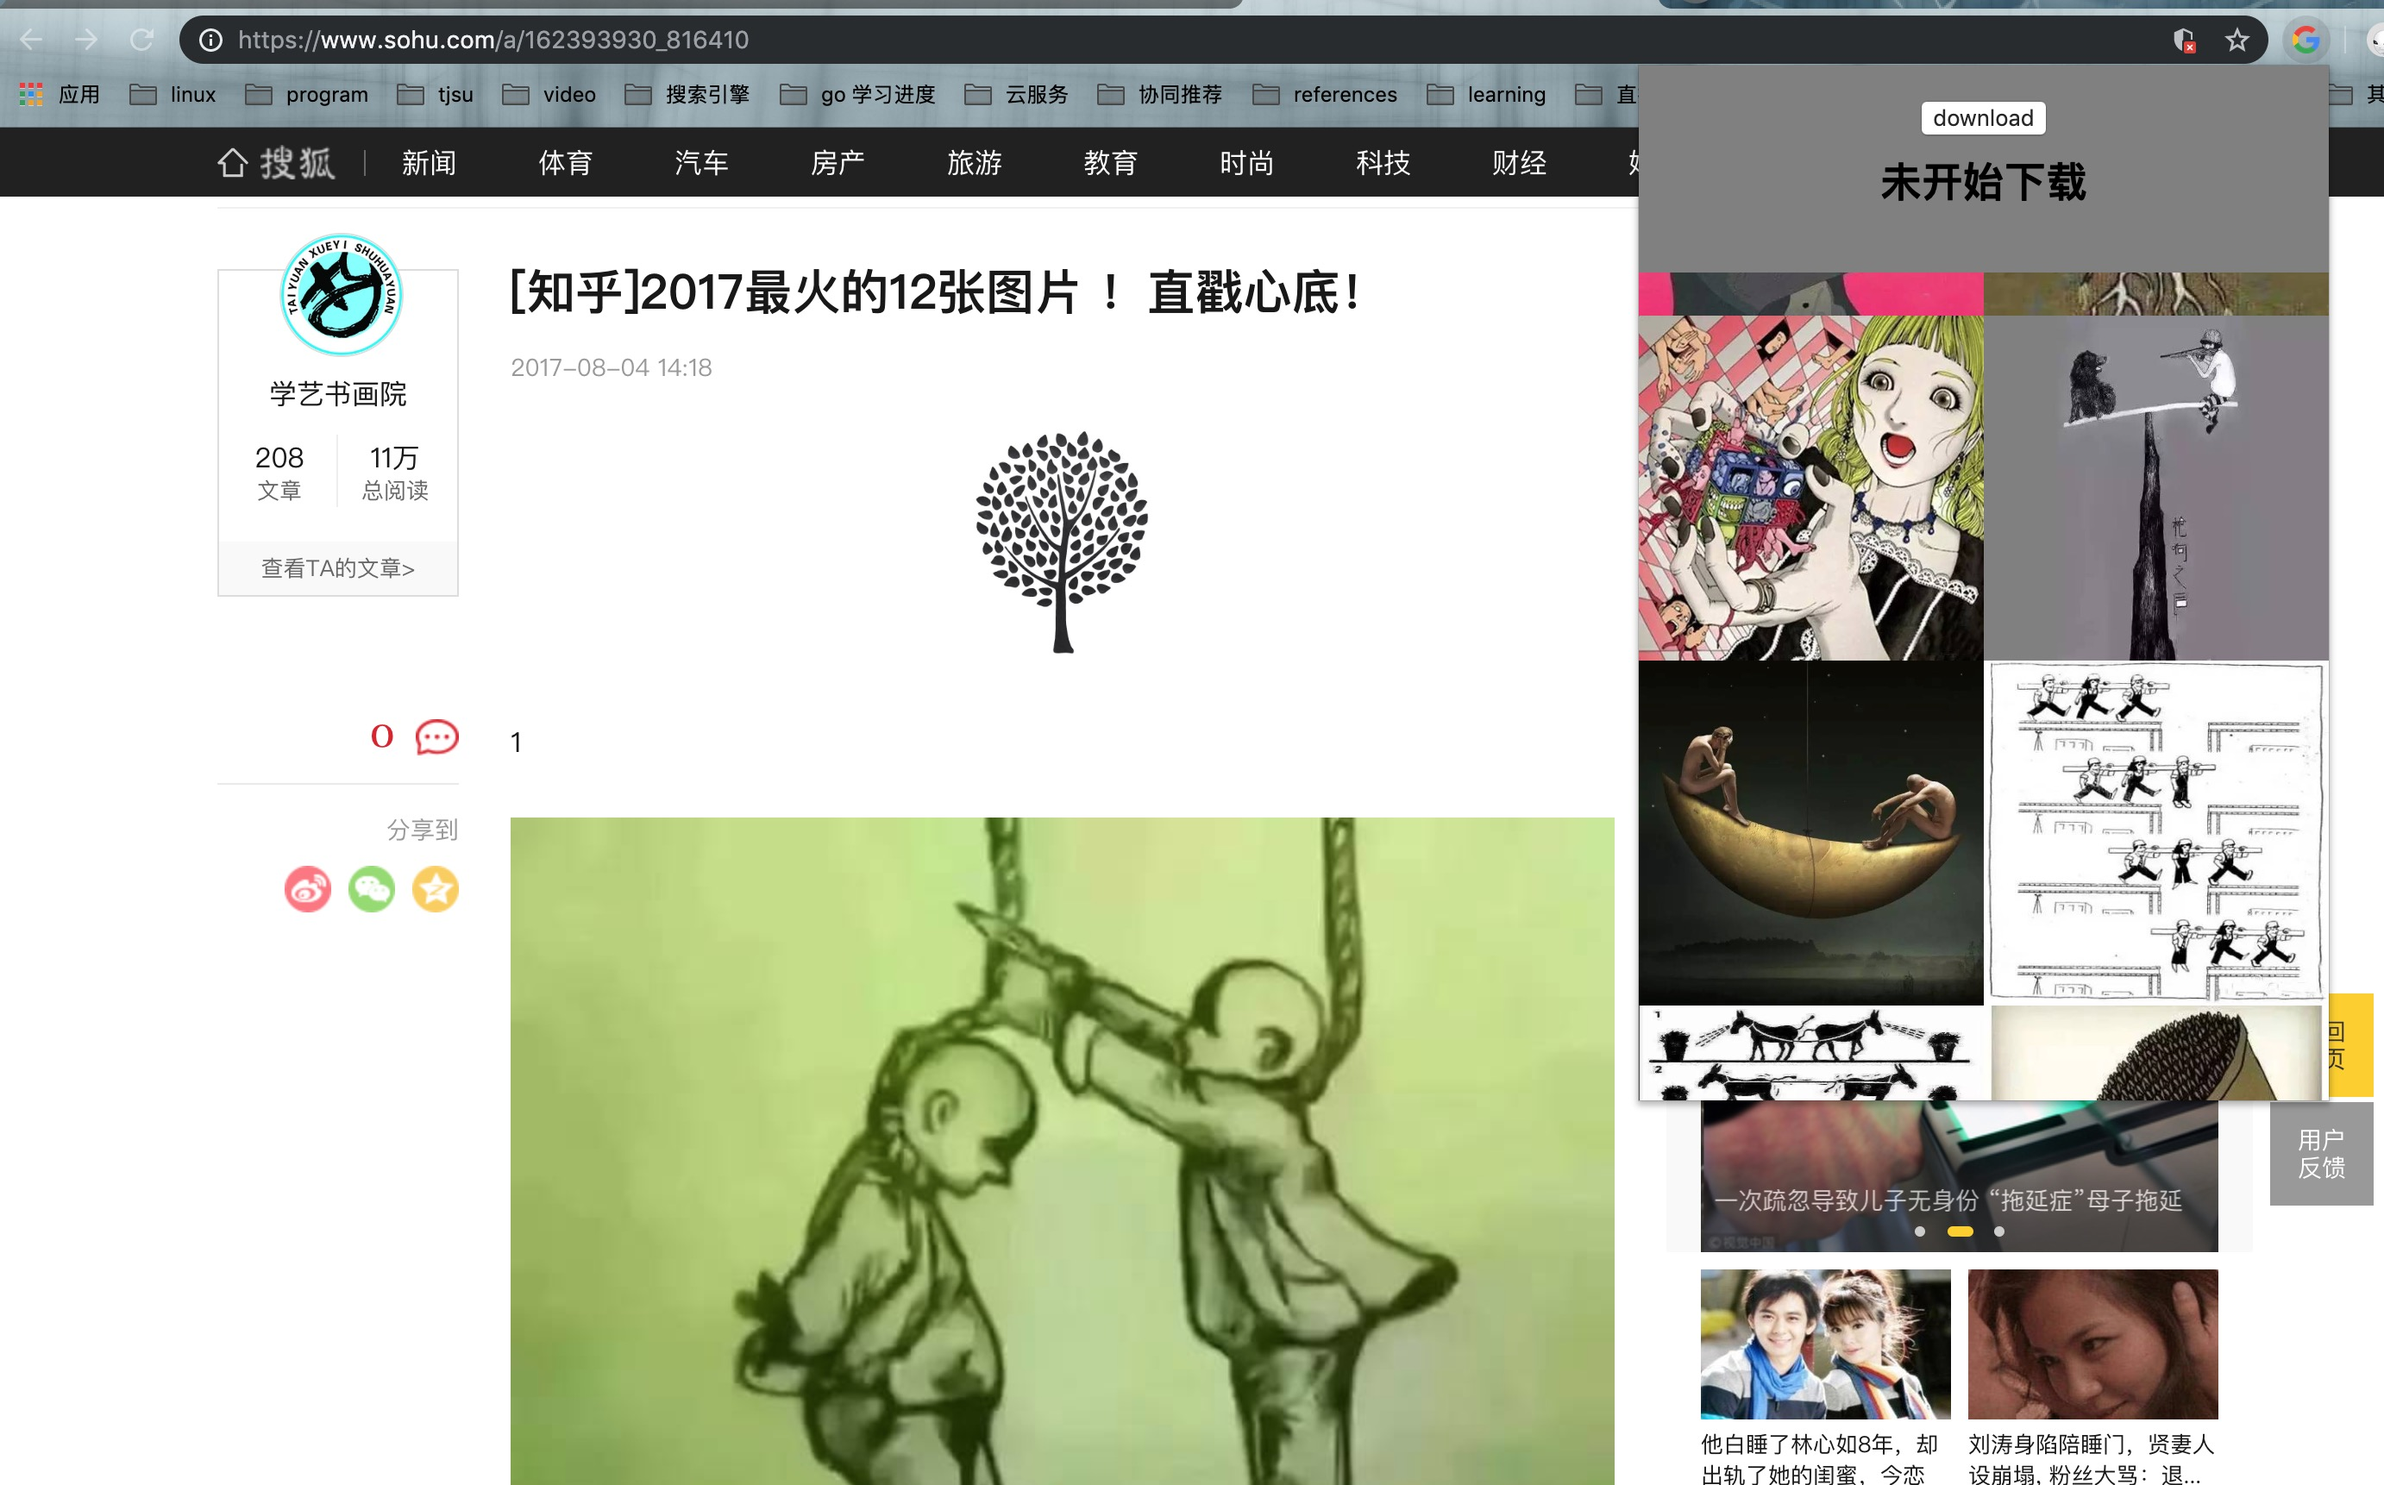
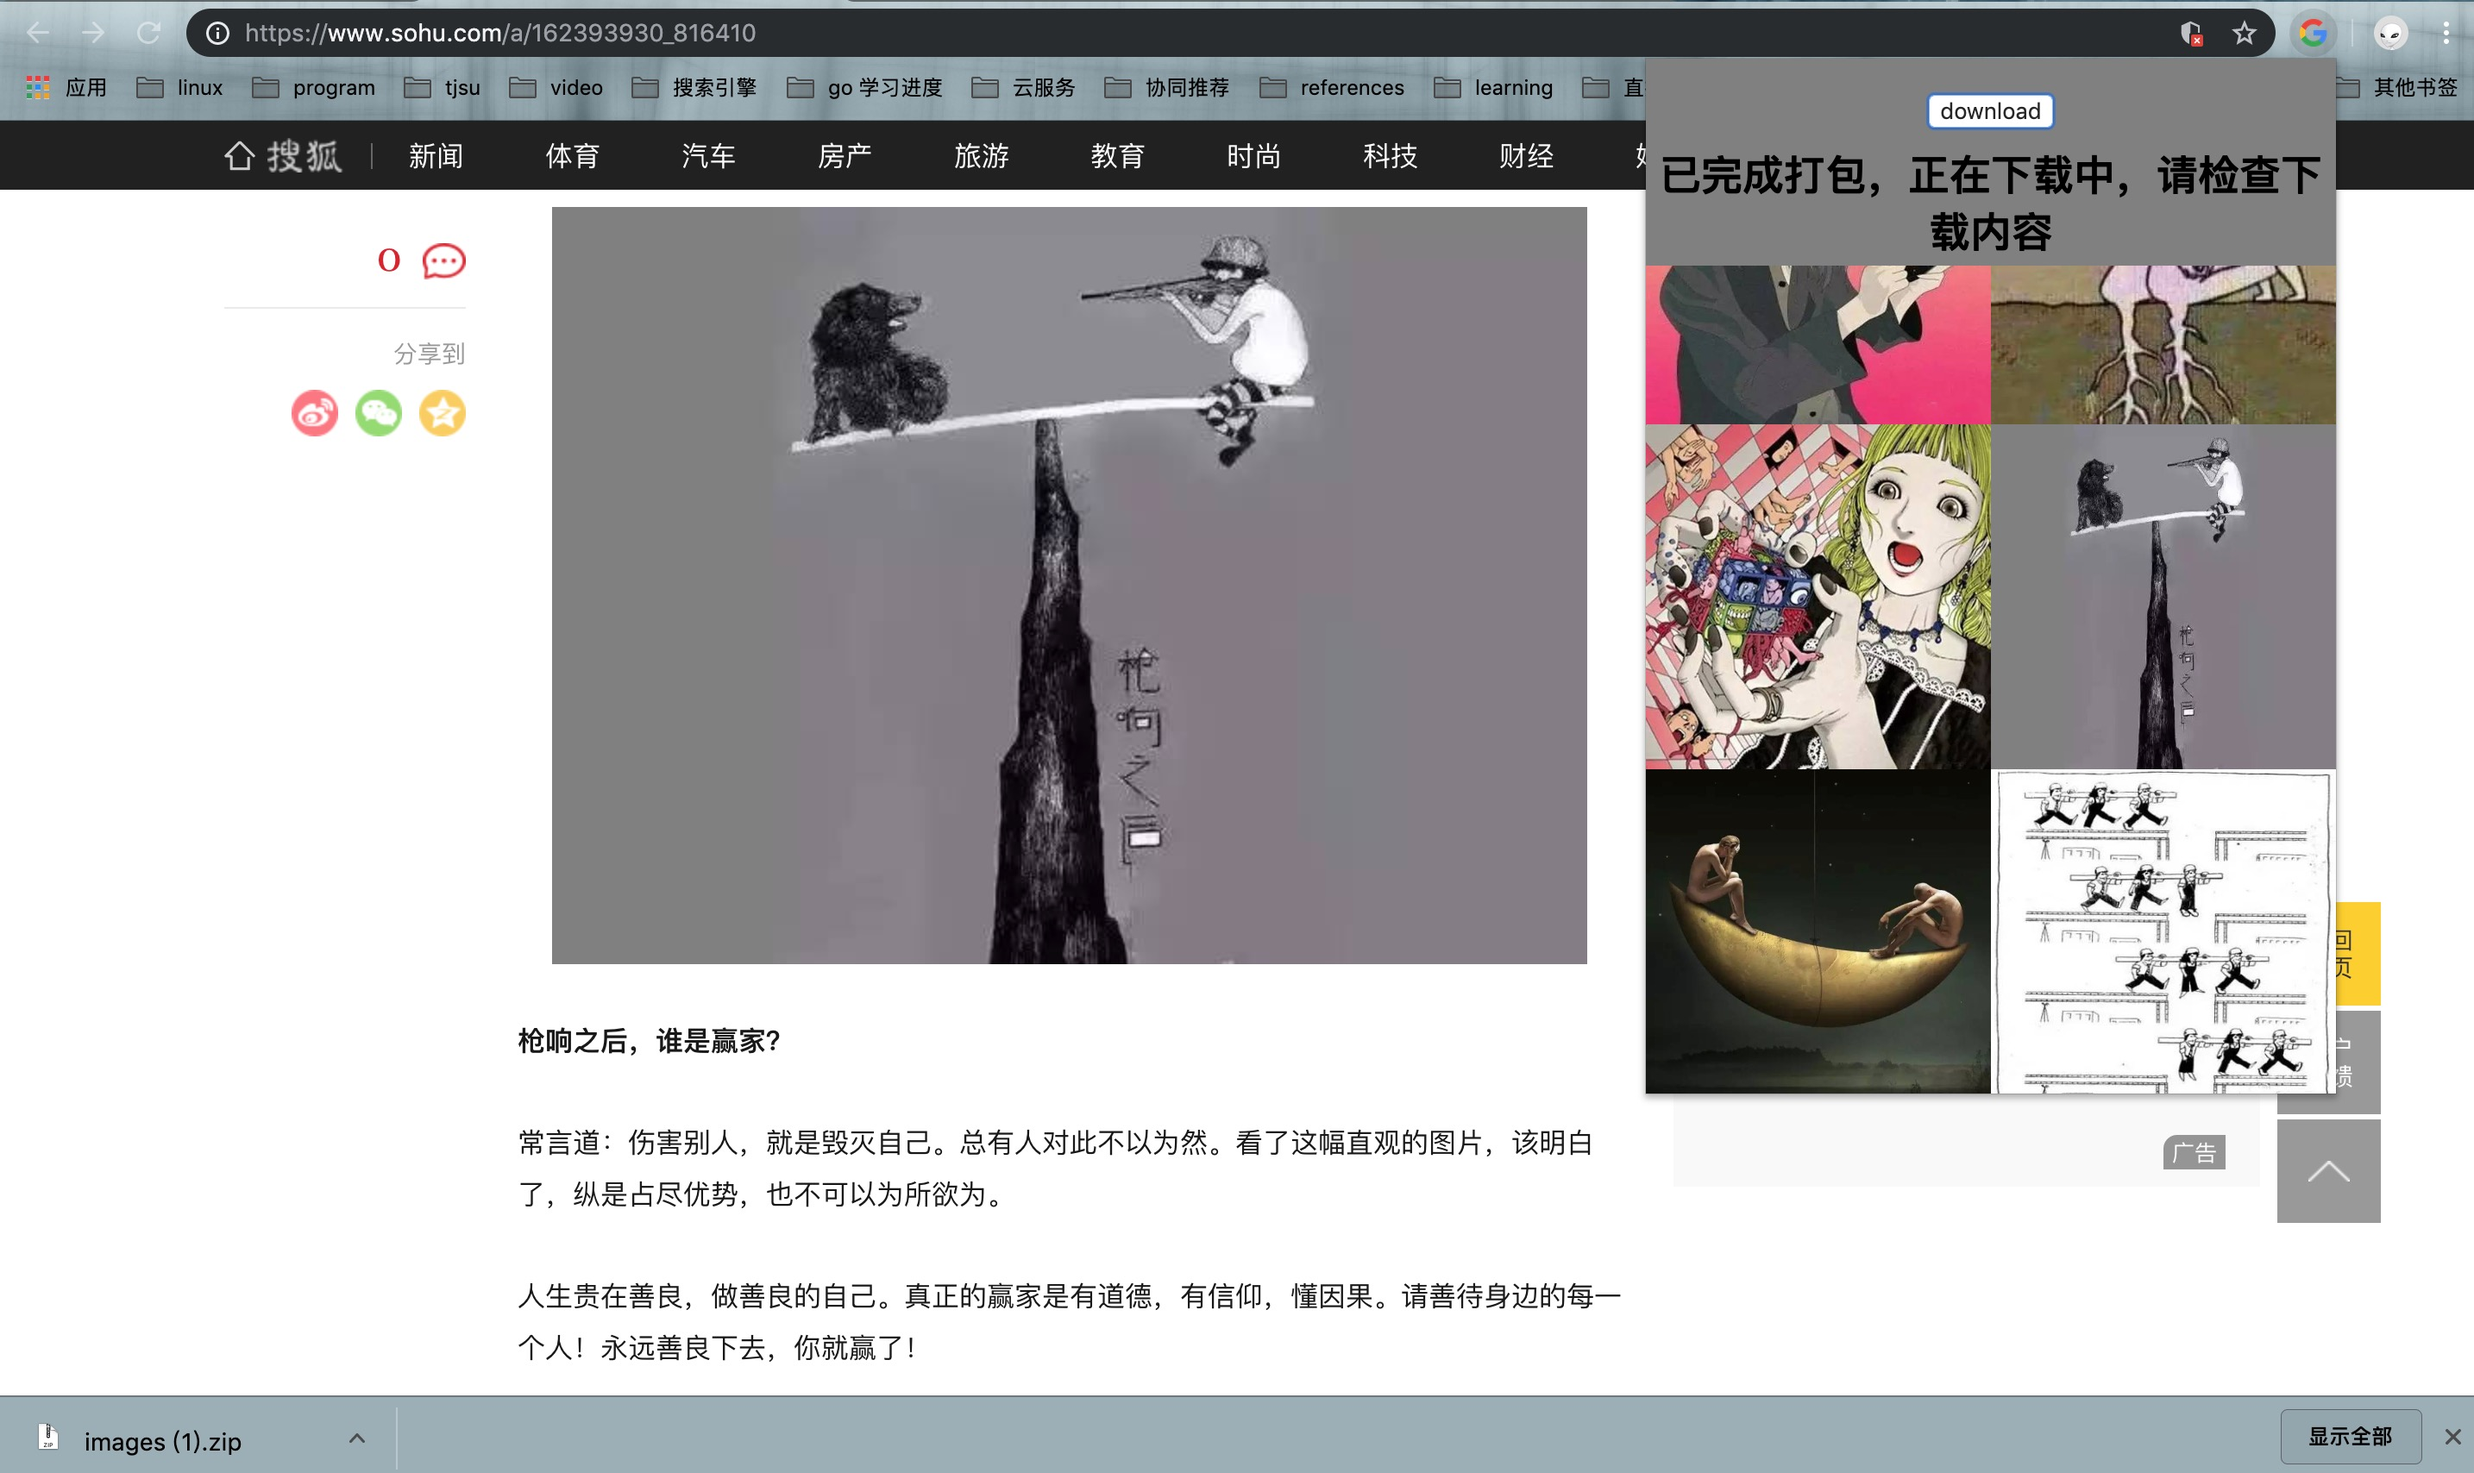
readme

diff --git a/README.md b/README.md
@@ -1,7 +1,17 @@
 # 描述
 chrome插件，可以抓取当前页面中的图片，筛选图片，并打包下载
 
-# 安装方法
-将bin/pic_capture.crx文件拖入chrome浏览器即可
+# 安装方法1 -- bin/pic_capture.crx安装包
+比较复杂，因为是非chrome商店的插件，所以需要设置白名单，自行谷歌
 
-# 效果图
+# 安装方法2
+1. 进入chrome设置 -> 更多工具 -> 扩展程序
+2. 打开开发者模式
+3. 加载已解压的扩展程序
+4. 选择下载的目录（包含manifest.json的那个目录）
+
+# 操作
+1. 默认下载所有的图片
+2. 如果不需要某张图片，可以单击该图片，它会变透明（下载时，会去除不要的图）
+3. 点击download
+![图片](readme/1.jpg)
